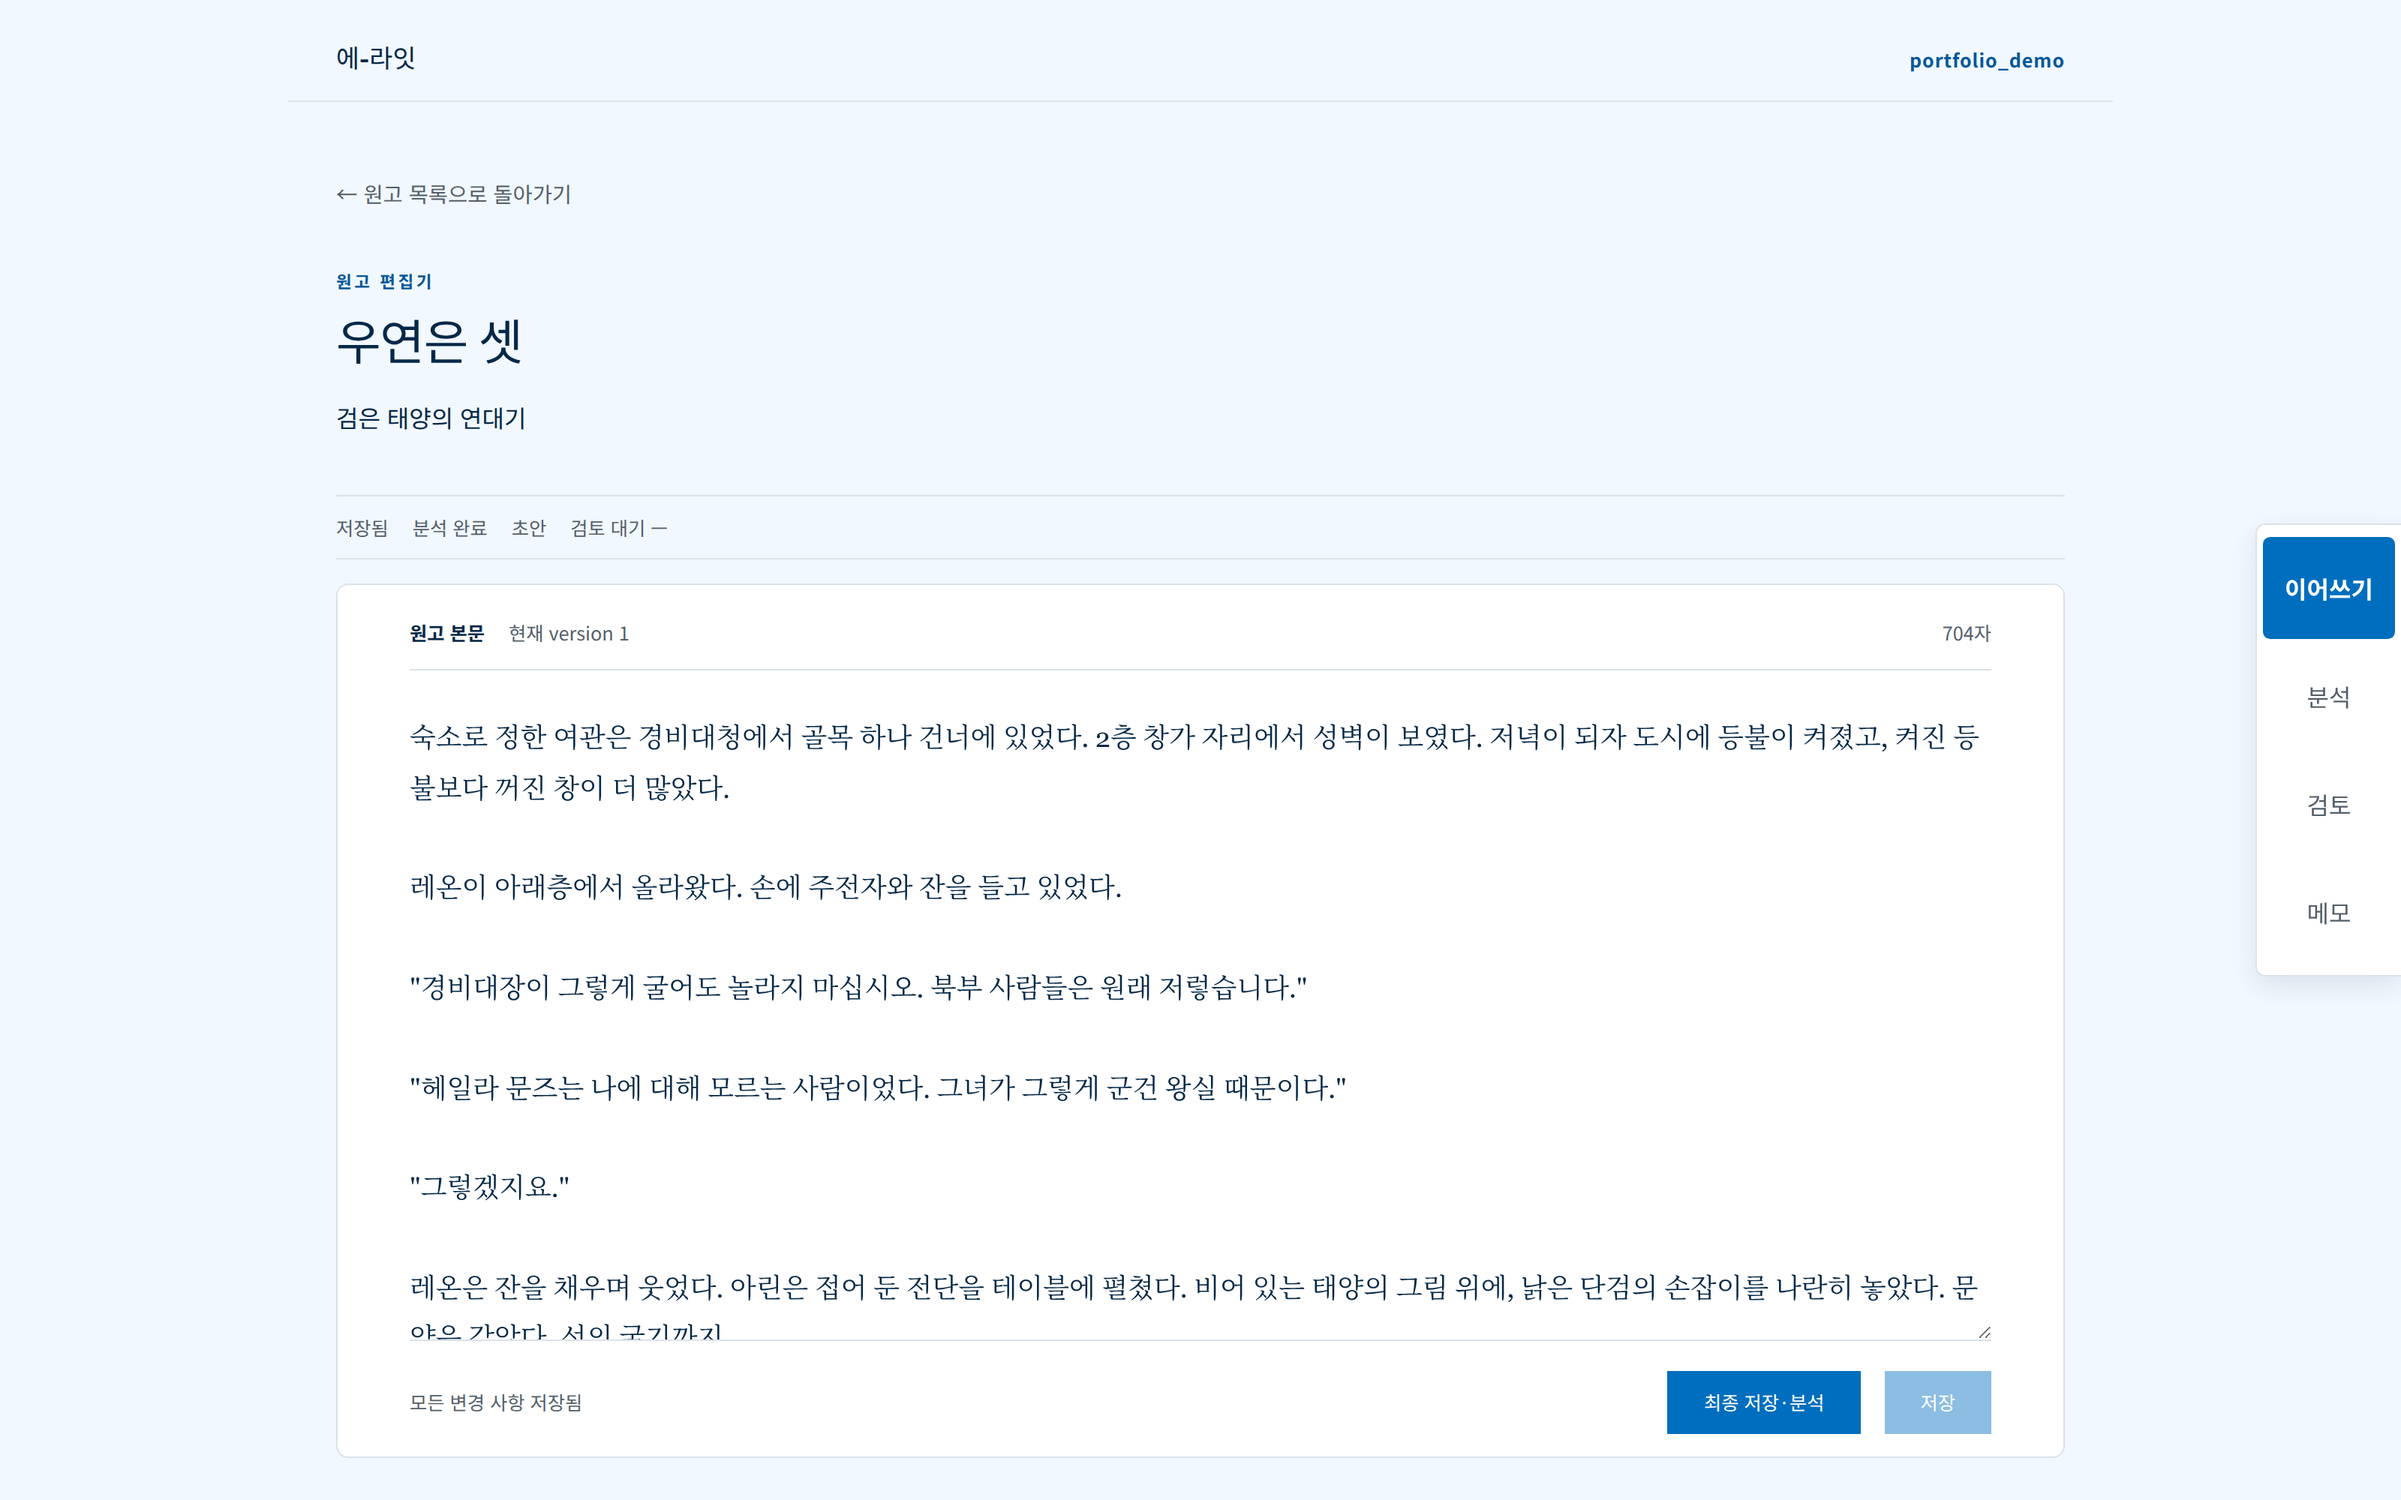
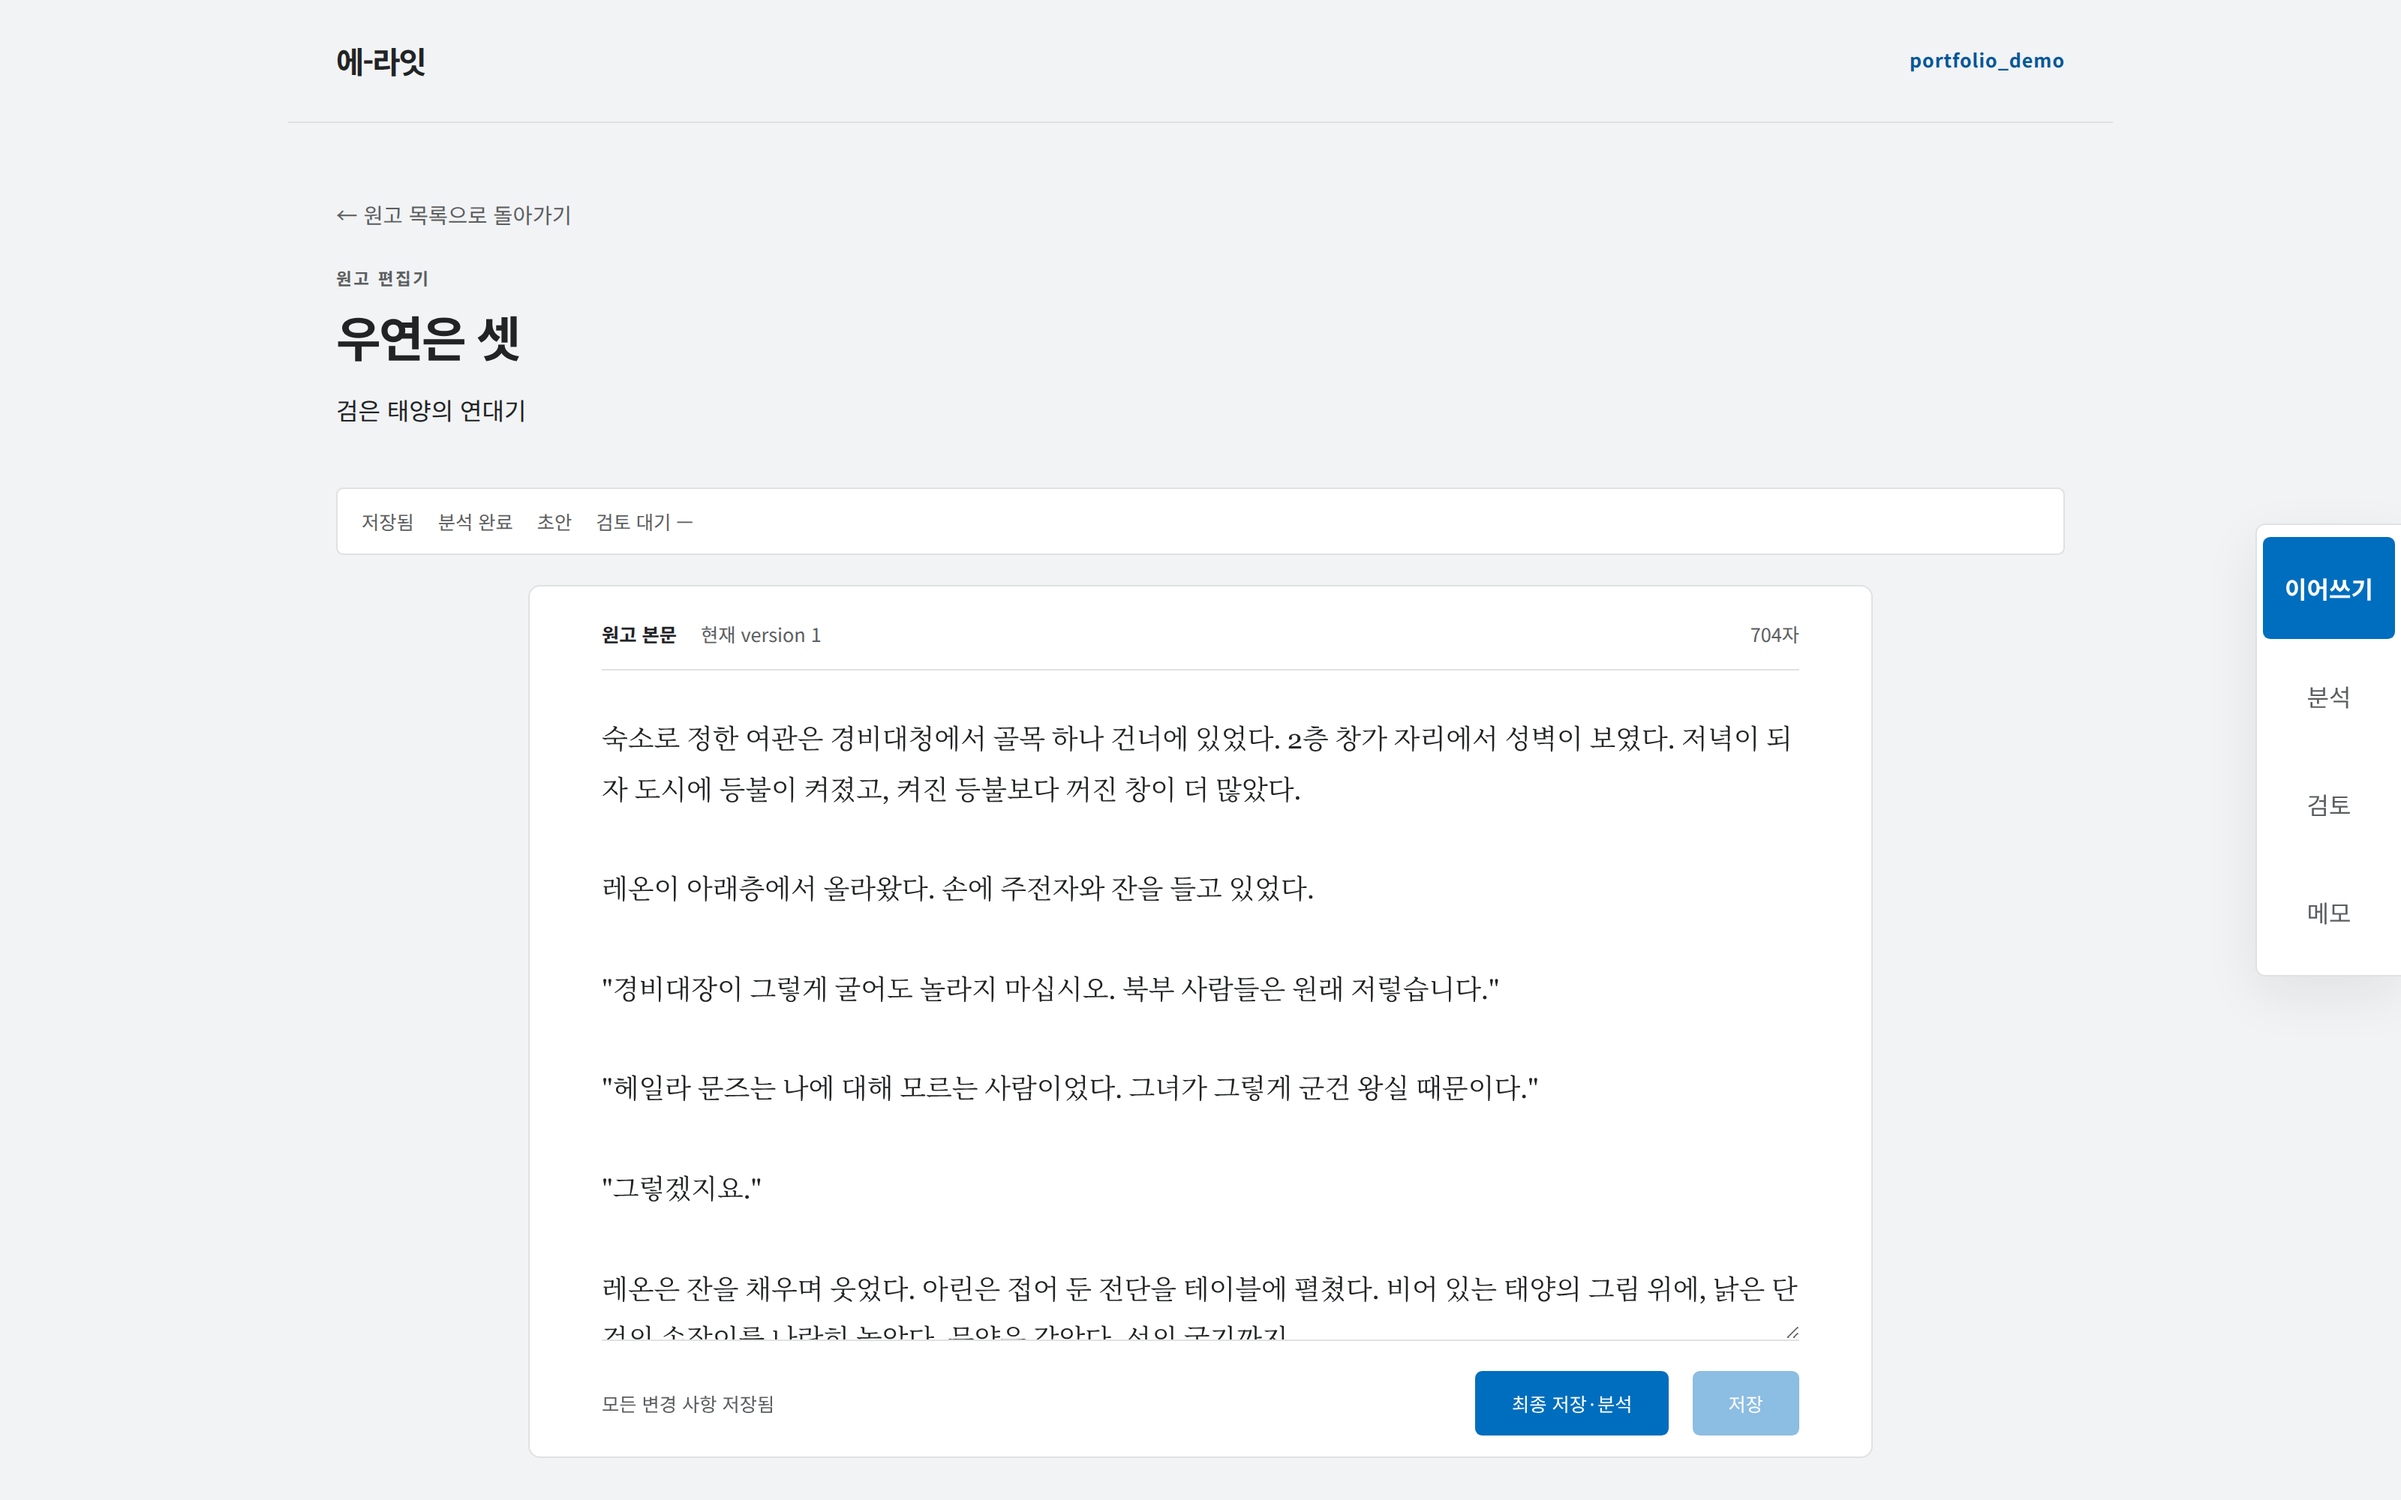
docs: 스크린샷 8장·검토 GIF 재촬영 — Phase N 중성 스튜디오(95418bc) 반영
로컬 스택의 프런트 이미지가 09-13 14:51 빌드라 새 디자인(09-14 09:57 커밋)이
빠져 있었다 — 컨테이너만 재시작돼 있었고 이미지는 그대로였다. frontend·application
이미지를 HEAD 로 재빌드(2026-09-14 18:47)한 뒤 찍었다.

- 스틸 8장: 전폭 사진 히어로 랜딩 · "기존 계정으로 입장" 로그인 · 2열 서재 · 원고 목록 ·
  편집기 · 관측 · 후보 목록(정체성 그룹, 1920폭) · 후보 상세. normalize.py 규칙 그대로.
- 검토 GIF: 목록 → 상세(아린 · 원문 근거) → 승인 → 목록.
- README 각주: 촬영 기준을 Phase N 반영 스택(2026-09-14)으로.

생성 GIF는 외부 모델 503(키 4개 전부 provider_unavailable)으로 첫 녹화가 실패해
뒤 커밋으로 따로 들어간다. 문서 가드 29 passed / 969 subtests.

diff --git a/README.md b/README.md
@@ -36,7 +36,7 @@
 <sub>스크린샷 8장은 같은 규칙(배경색 패딩 3:2 · 1200px)으로 정규했다 —
 [`docs/img/normalize.py`](docs/img/normalize.py). 데모 데이터(검은 태양의 연대기)는 실제
 파이프라인 — 분석 추출·후보 그룹화·승인 — 을 돌려 만들었다. 촬영은 이 저장소의 현재
-`main` 을 빌드한 스택에서 했다(2026-09-13).</sub>
+`main`(Phase N 중성 스튜디오 반영)을 빌드한 스택에서 했다(2026-09-14).</sub>
 
 ## 이 저장소를 읽는 세 축
 
